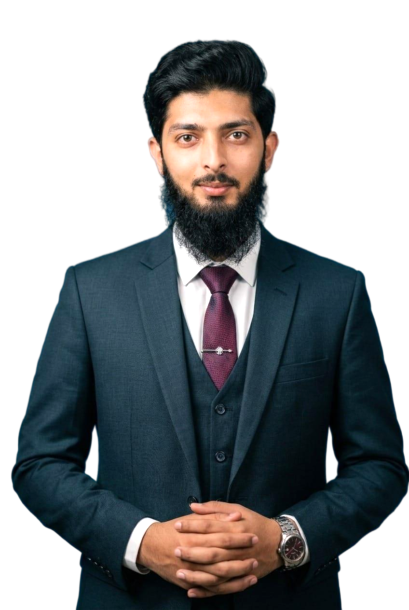
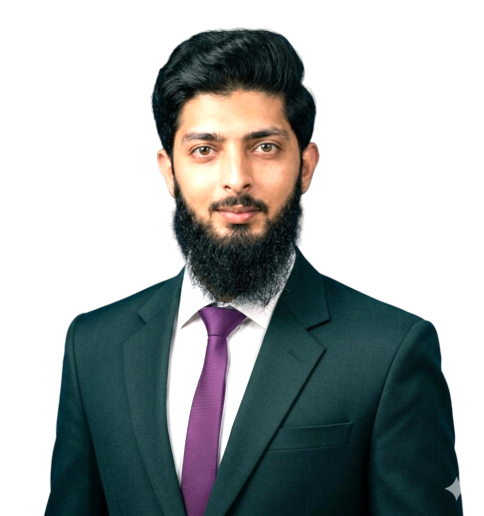
add team sectionss

diff --git a/src/components/about/OurTeamSection.jsx b/src/components/about/OurTeamSection.jsx
@@ -4,14 +4,14 @@ import { useScrollAnimation } from "../../hooks/useScrollAnimation";
 import ceoImg from "../../assets/ceo.png";
 import avatarIcon from "../../assets/user.svg";
 import teamlead from "../../assets/team/team-lead.png"
-import projectmanager from "../../assets/team/project-manager.png"
+import projectmanager from "../../assets/team/project-manager&AI-Developer.png"
 import softwareengineer from "../../assets/team/software-engineer.png"
 import softwareengineer2 from "../../assets/team/software-engineer2.png"
 import softwareengineer3 from "../../assets/team/software-engineer3.png"
 import businessdevelopmentexecutive from "../../assets/team/business-development-executive.png"
 import marketingmanager from "../../assets/team/marketing-manager.png"
 import uiuxdesigner from "../../assets/team/ui-ux-designer.png"
-import fullstackaideveloper from "../../assets/team/full-stack-ai-developer.png"
+import fullstackaideveloper from "../../assets/team/project-manager&AI-Developer.png"
 import cto from "../../assets/team/CTO.png"
 
 const TEAM_MEMBERS = [
@@ -24,7 +24,7 @@ const TEAM_MEMBERS = [
   { name: "Abdullah Anjum", role: "Marketing Manager", image: marketingmanager ,featured: true},
   { name: "Maarij Ali", role: "Project Manager", image: projectmanager ,featured: true},
   { name: "Irum Shahzadi", role: "Software Engineer"},
-  { name: "Ali Raza", role: "AssociateSoftware Engineer", image: softwareengineer3 ,featured: true},
+  { name: "Ali Raza", role: "Software Engineer", image: softwareengineer3 ,featured: true},
   { name: "Saad Bin Abi Usama", role: "Software Engineer", image: softwareengineer2 ,featured: true},
   { name: "Hamza Mumtaz", role: "UI UX Designer", image: uiuxdesigner ,featured: true},
   { name: "Faizan Ahmed", role: "Software Engineer", image: softwareengineer ,featured: true},

diff --git a/src/components/about/OurTeamSection.css b/src/components/about/OurTeamSection.css
@@ -2,7 +2,7 @@
   width: 100%;
   padding: clamp(56px, 8vw, 96px) clamp(10px, 2.4vw, 28px);
   box-sizing: border-box;
-  background: linear-gradient(180deg, #ffffff 0%, #f7f2ff 100%);
+ /*  background: linear-gradient(180deg, #ffffff 0%, #f7f2ff 100%); */
 }
 
 .our-team__container {
@@ -60,6 +60,7 @@
   justify-content: center;
   margin-bottom: clamp(22px, 3.2vw, 34px);
   opacity: 0;
+  background-color: white;
 }
 
 .our-team.animate .our-team__spotlight {
@@ -69,6 +70,7 @@
 .our-team__carousel {
   width: 100%;
   overflow: hidden;
+  background-color: white !important;
   -webkit-mask-image: linear-gradient(to right, transparent 0, #000 7%, #000 93%, transparent 100%);
   mask-image: linear-gradient(to right, transparent 0, #000 7%, #000 93%, transparent 100%);
 }
@@ -139,7 +141,7 @@
   left: 50%;
   top: clamp(26px, 4vw, 36px);
   transform: translateX(-50%);
-  width: min(66%, 190px);
+  width: min(52%, 148px);
   aspect-ratio: 1.14 / 1;
   border-radius: 16px;
   background: linear-gradient(180deg, #c510ff 0%, #8421db 45%, #3c1267 100%);
@@ -165,8 +167,8 @@
 .our-team-card__media {
   position: relative;
   z-index: 2;
-  margin: clamp(52px, 7.2vw, 74px) auto 0;
-  width: min(64%, 188px);
+  margin: clamp(44px, 6vw, 60px) auto 0;
+  width: min(76%, 220px);
   aspect-ratio: 1 / 1;
   border-radius: 50%;
   border: 3px solid rgba(255, 255, 255, 0.6);
@@ -367,6 +369,10 @@
   .our-team-card--compact {
     width: clamp(220px, 30vw, 260px);
   }
+
+  .our-team-card__hex {
+    width: min(48%, 130px);
+  }
 }
 
 @media (max-width: 700px) {
@@ -392,7 +398,7 @@
   }
 
   .our-team-card__media {
-    width: min(62%, 172px);
+    width: min(72%, 196px);
   }
 
   .our-team-card--compact {
